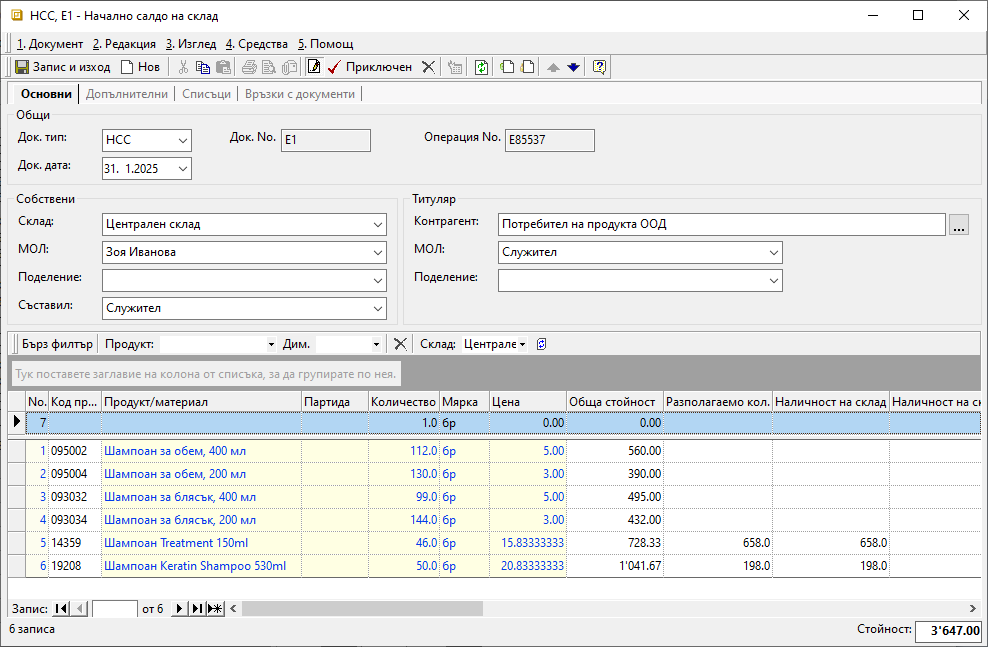
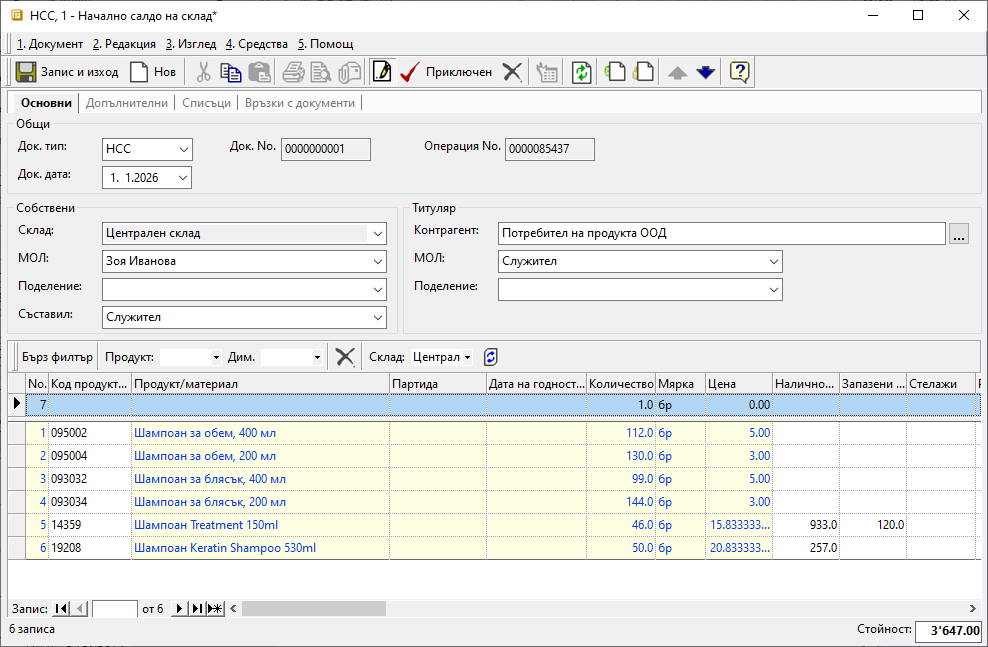
Допълване на тема НСС

diff --git a/guide/erp/002-docs/002-trade-system/002-warehouse-documents/002-beg-saldo.md b/guide/erp/002-docs/002-trade-system/002-warehouse-documents/002-beg-saldo.md
@@ -6,6 +6,7 @@
 
 - [Въведение](#въведение)  
 - [Въвеждане на начално салдо](#въвеждане-на-начално-салдо)  
+- [Генериране на начално салдо](#генериране-на-начално-салдо)
 - [Свързани статии](#свързани-статии)  
 
 ## **Въведение**
@@ -47,6 +48,25 @@
 
 4) Чрез бутон [**Приключен**] от лентата с инструменти документът се валидира.   
 С това складовите наличности са актуализирани и данните от документа стават видими в справките.  
+
+## **Генериране на начално салдо**
+
+Системата разполага с вграден инструмент за автоматична генерация на начално салдо за склада. Той е достъпен от **Контролен панел » Генериране на начално салдо за склада**.  
+
+![](902-beg-saldo2.png){ class=align-center }
+
+За генерацията на **НСС**-*Начално салдо на склад* е необходимо дефиниране на следните критерии:  
+
+   - **От дата** - В полето се избира дата на началното салдо.  
+   Това предполага всички складови документи до тази дата да бъдат валидирани. В противен случай няма да участват при формиране на началното салдо.  
+   - **Склад** - Чрез обзавеждане на този реквизит се указва склад, за който се генерира документ тип **НСС**. Системата дава възможност за избор на един или множество складове.  
+   - **Стойност без количество в отделен диокумент** - Чрез опцията се указва генерация на допълнителен документ **НСС**. Той включва всички продукти без наличност в склада с остатъчна стойност.    
+   - **Отделен документ за всяка група продукти** - Опцията указва генерация на отделни документи **НСС** за всяка категория продукти.  
+   - **Приключване** - С поставяне на отметка в полето се указва на системата да генерира документ **НСС** в състояние *Приключен*. Ако опцията не бъде маркирана, документът остава в състояние на редакция.  
+
+Генерацията се потвърждава с бутон [**OK**]. Новосъздадените начални салда са достъпни в **Търговска система » Складови документи**.  
+
+> При автоматичната генерация на **НСС** системата обзавежда документа както с наличностите, така и със среднопретеглени цени за всеки склад.    
 
 ## **Свързани статии**
 
